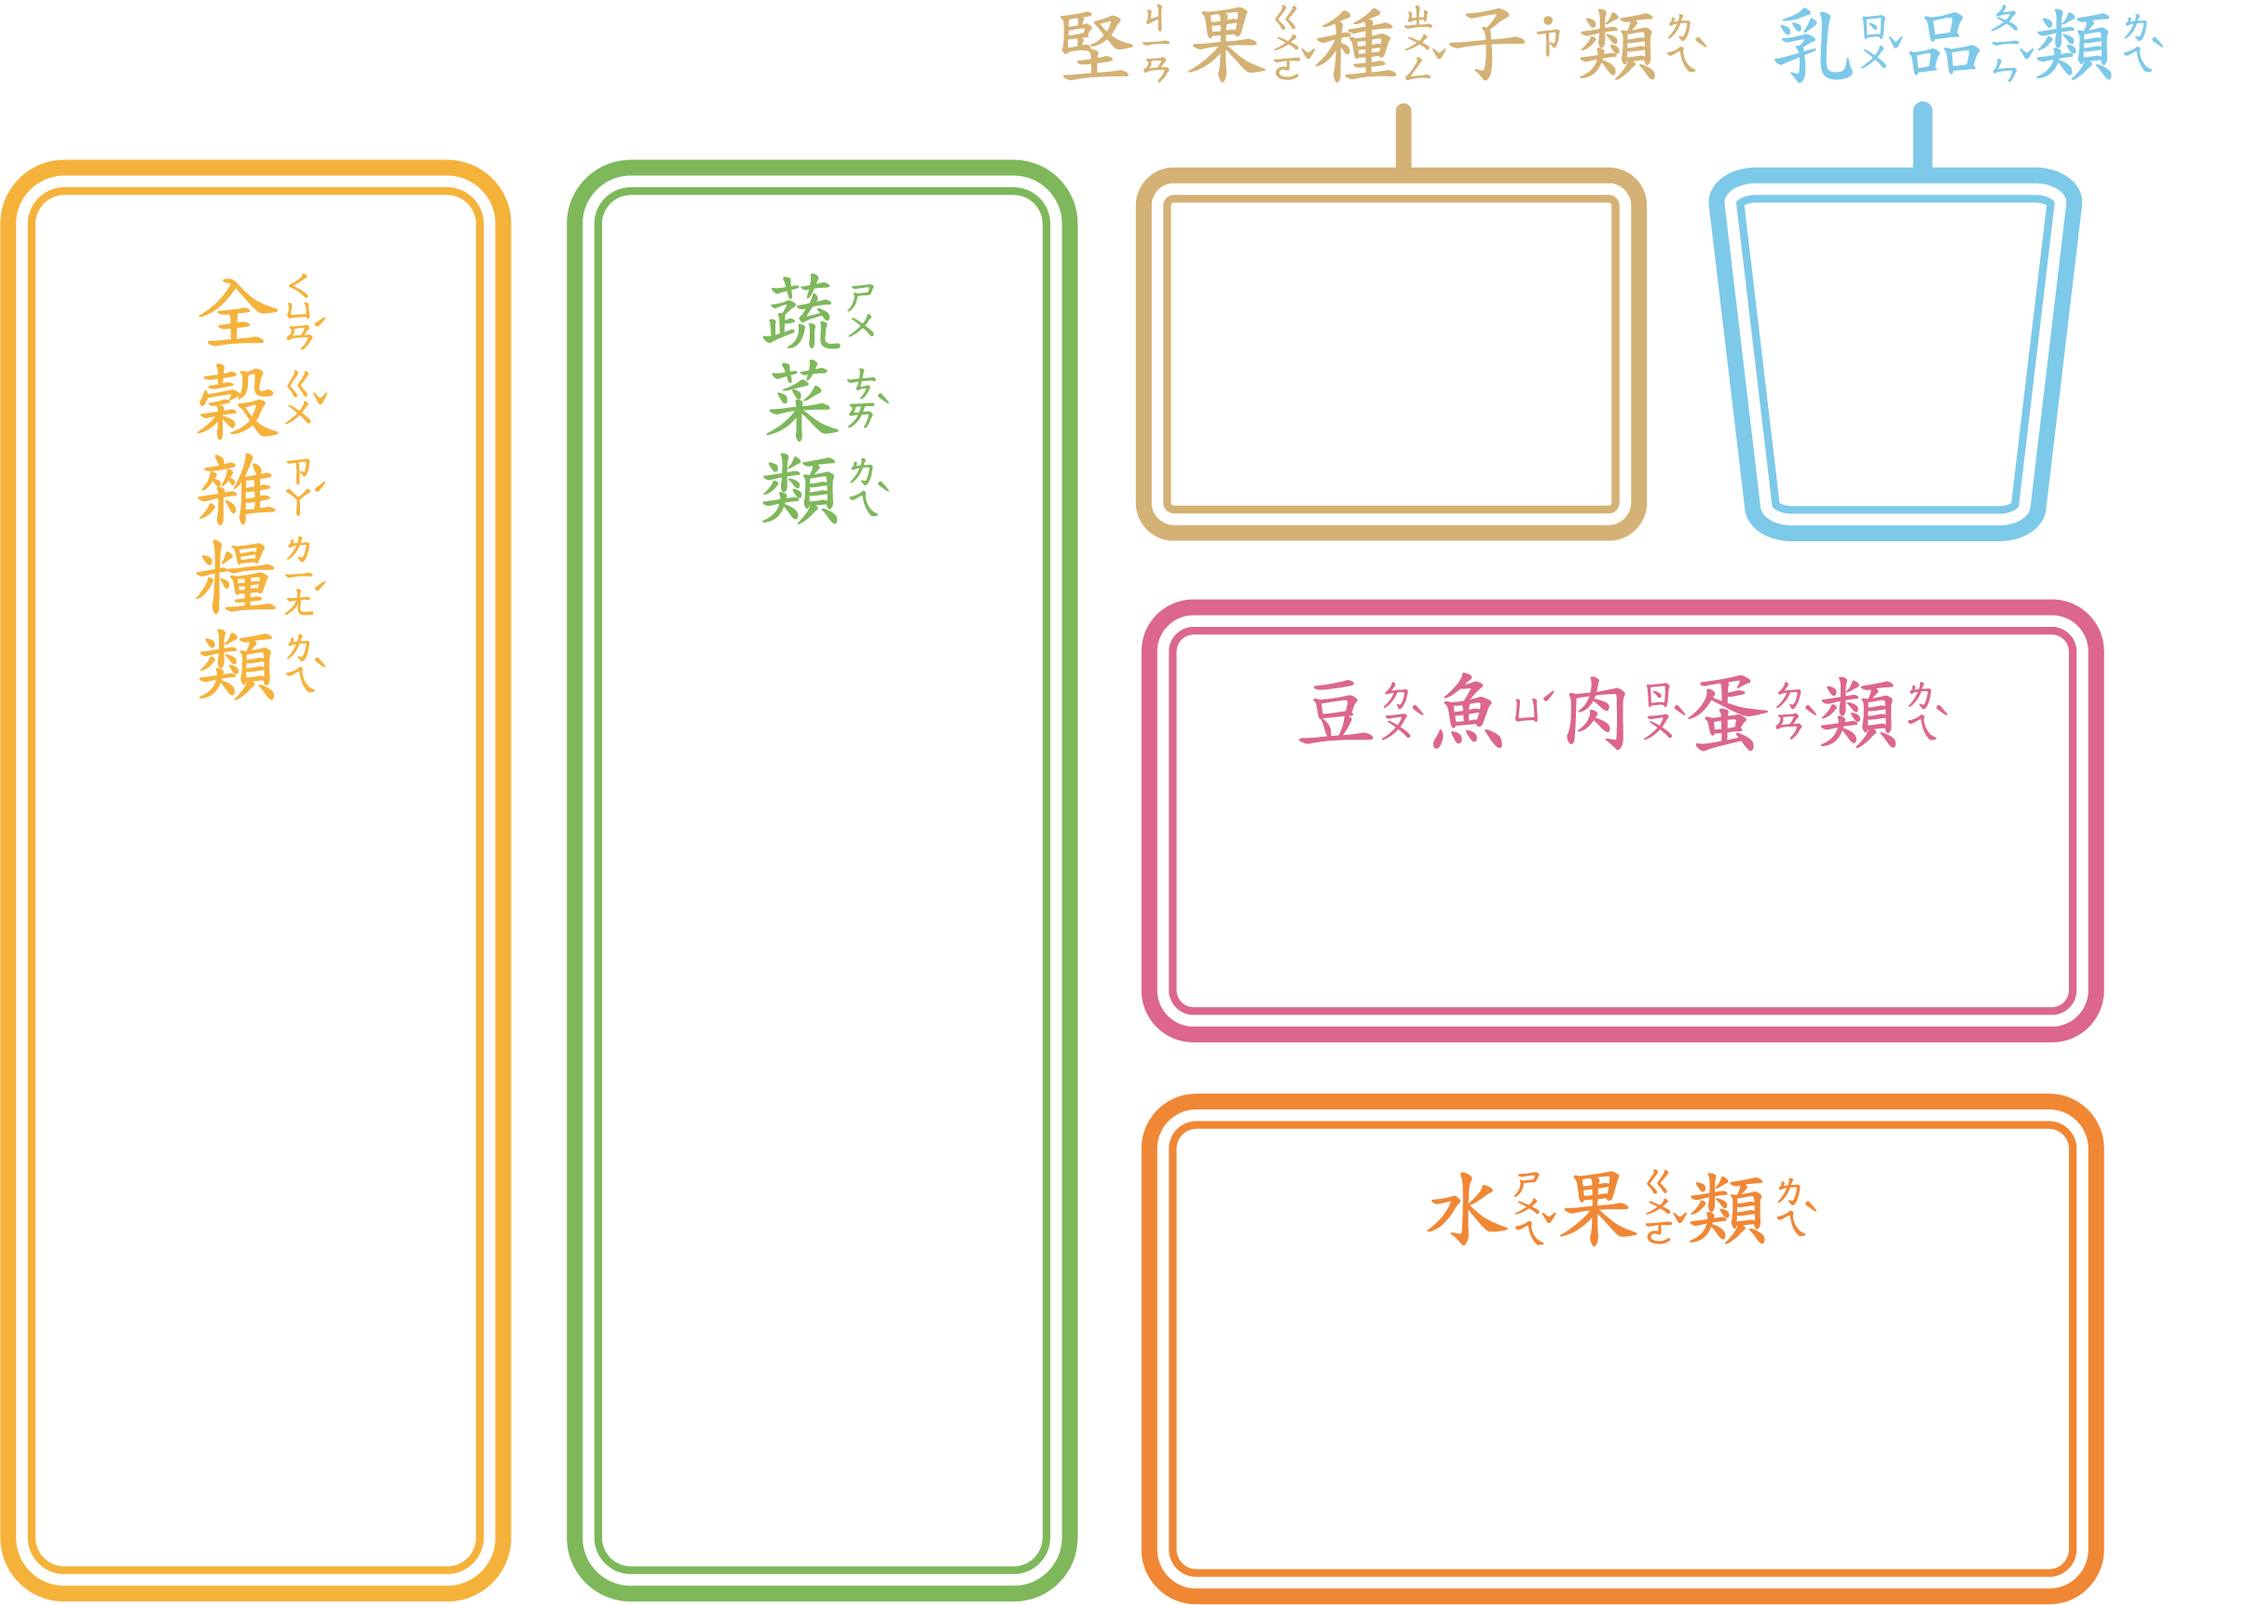
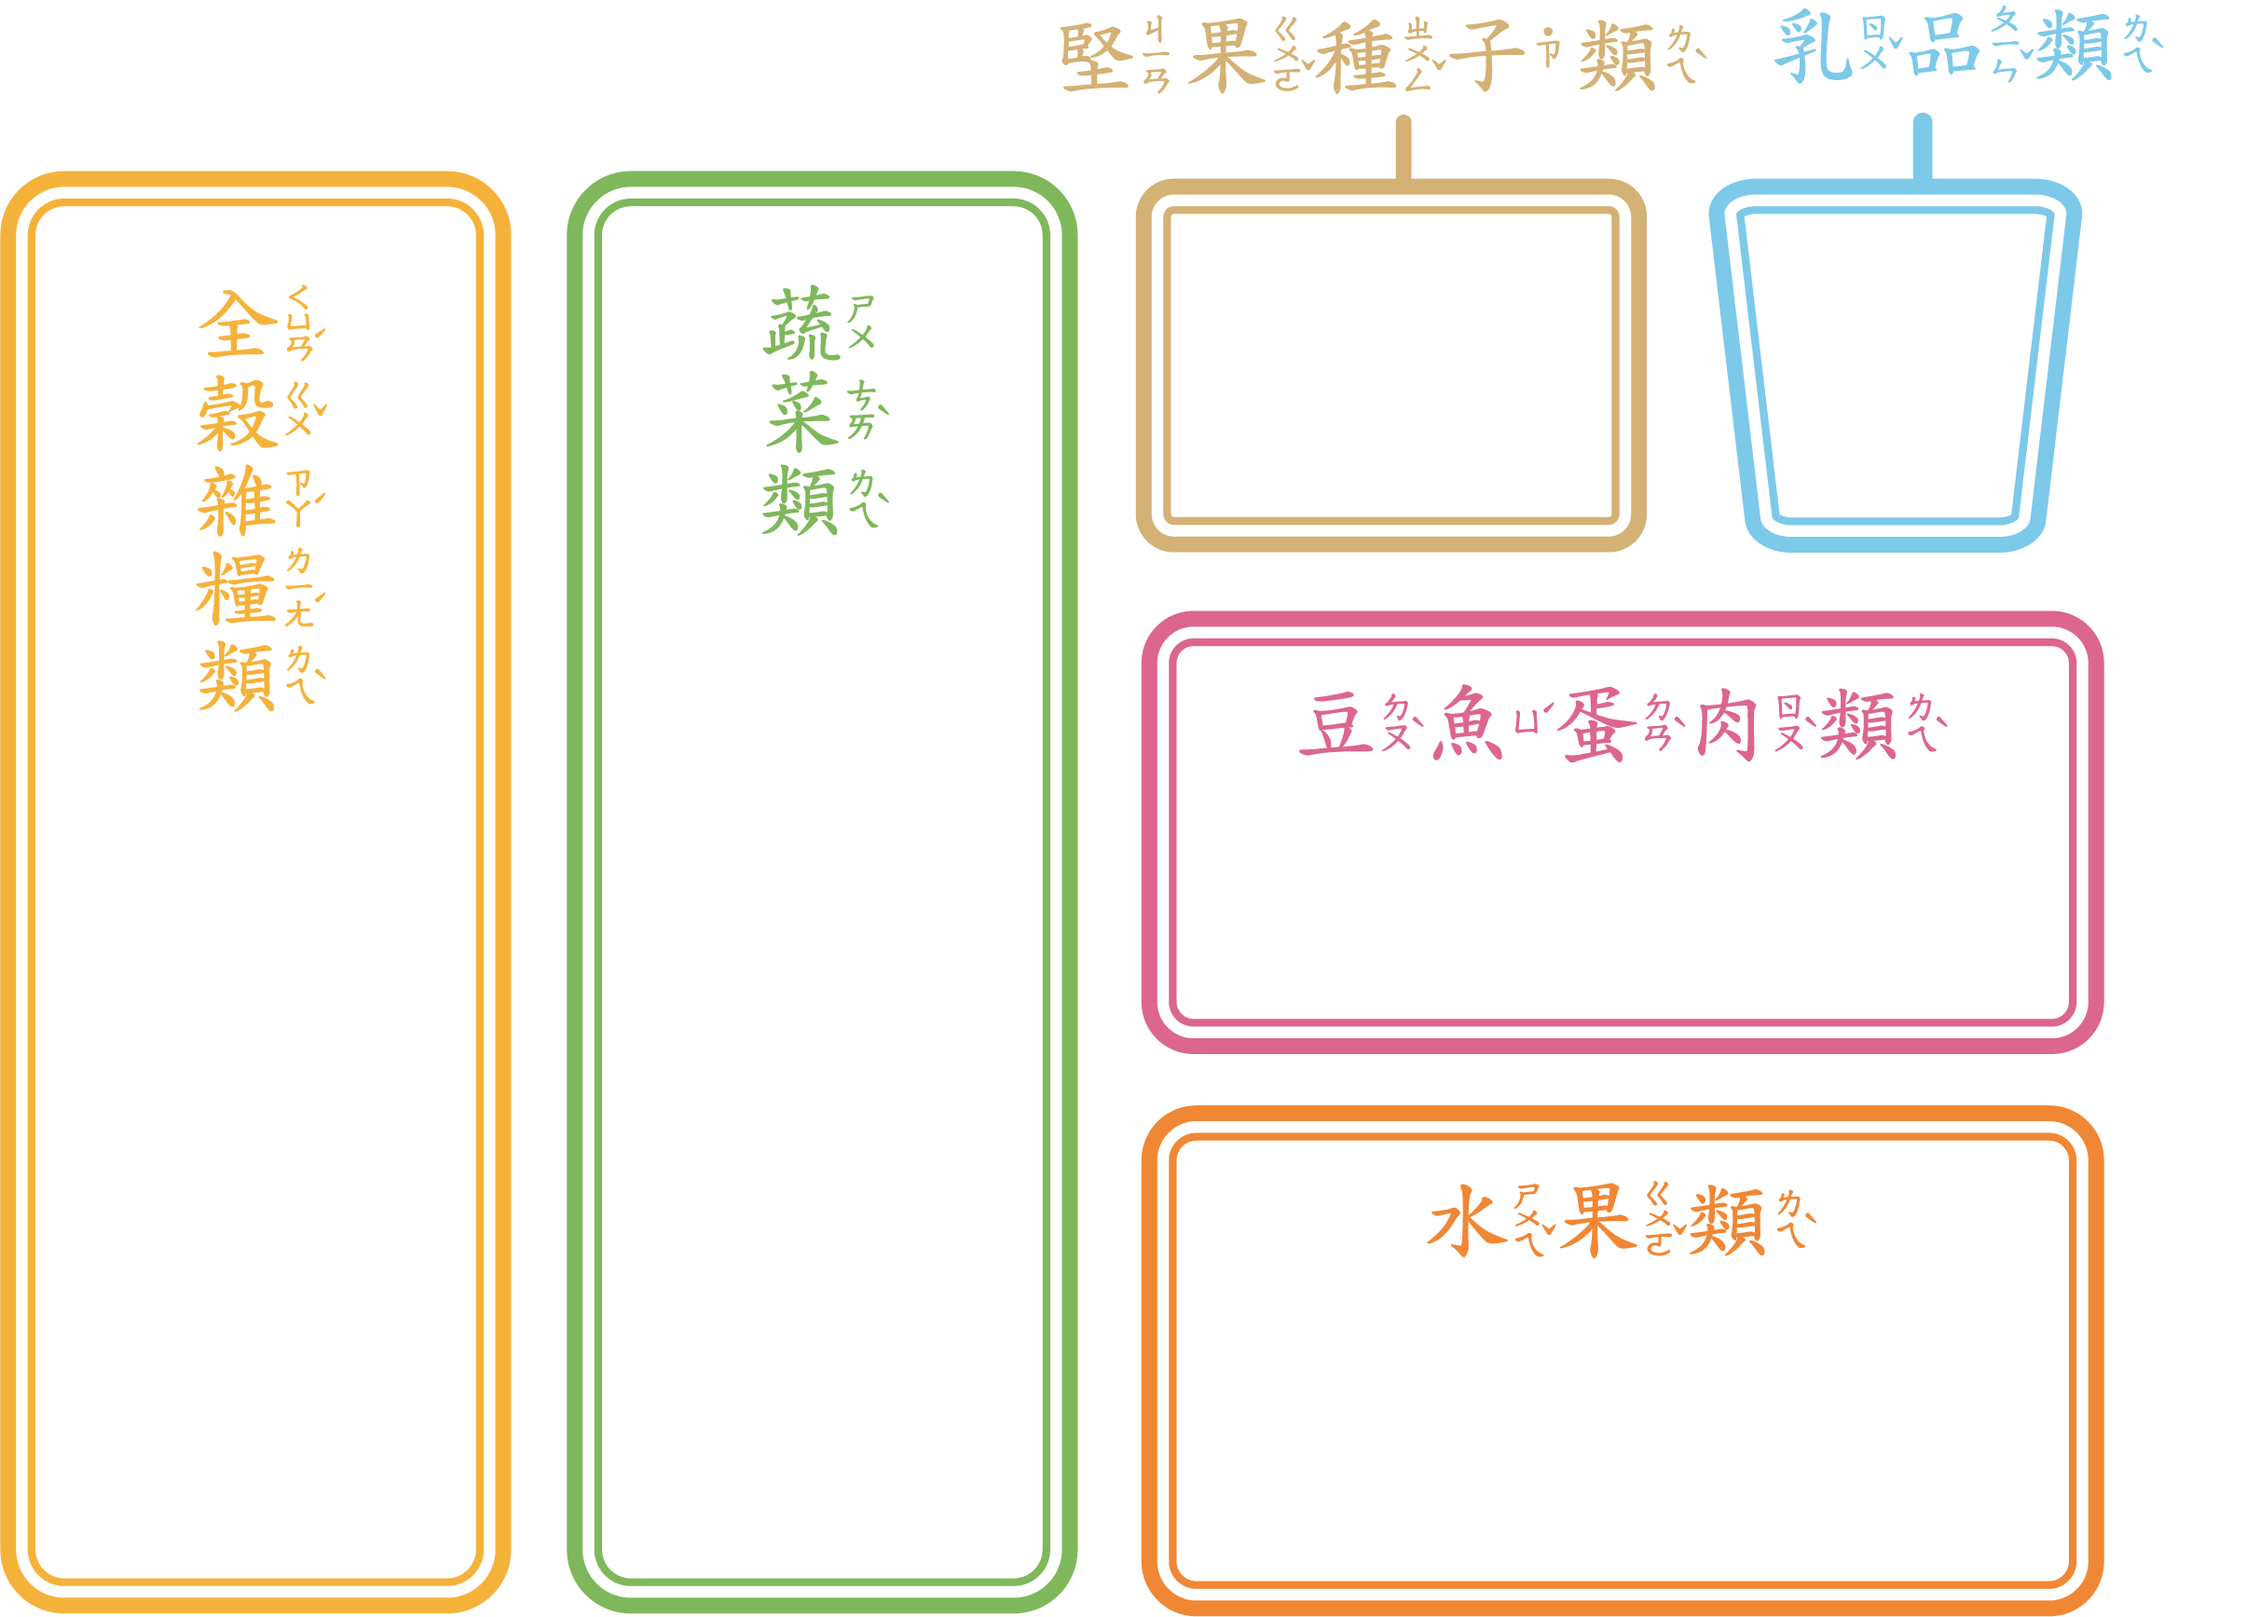
20241002 1.修正遊戲二我的餐盤音效較小的問題 2.修正圖片內名稱錯誤問題

diff --git a/E-Plate/public/javascripts/canvas.js b/E-Plate/public/javascripts/canvas.js
@@ -173,10 +173,10 @@ const endGame = (scene, userAnswer = null) => {
 }
 
 // 引導語音播放
-const guide = (scene, audioName) => {
+const guide = (scene, audioName, volume = audio_volume) => {
   if (audio_effect_play) {
     const bg = scene.add.rectangle(GCX, GCY, WIDTH, HEIGHT, 0xffffff, 0).setDepth(1).setInteractive();
-    const audio_guide = scene.sound.add(audioName, { volume: audio_volume });
+    const audio_guide = scene.sound.add(audioName, { volume: volume });
     audio_guide.play();
     audio_guide.on('complete', () => {
       bg.destroy();

diff --git a/E-Plate/public/javascripts/games.js b/E-Plate/public/javascripts/games.js
@@ -100,7 +100,7 @@ const game2 = {
     };
     foodArea(this, foodArr, foodlist, LConfig);
 
-    guide(this, 'guide2');
+    guide(this, 'guide2', 1);
 
     // /************************************************ 互動事件部分 ************************************************/
 
